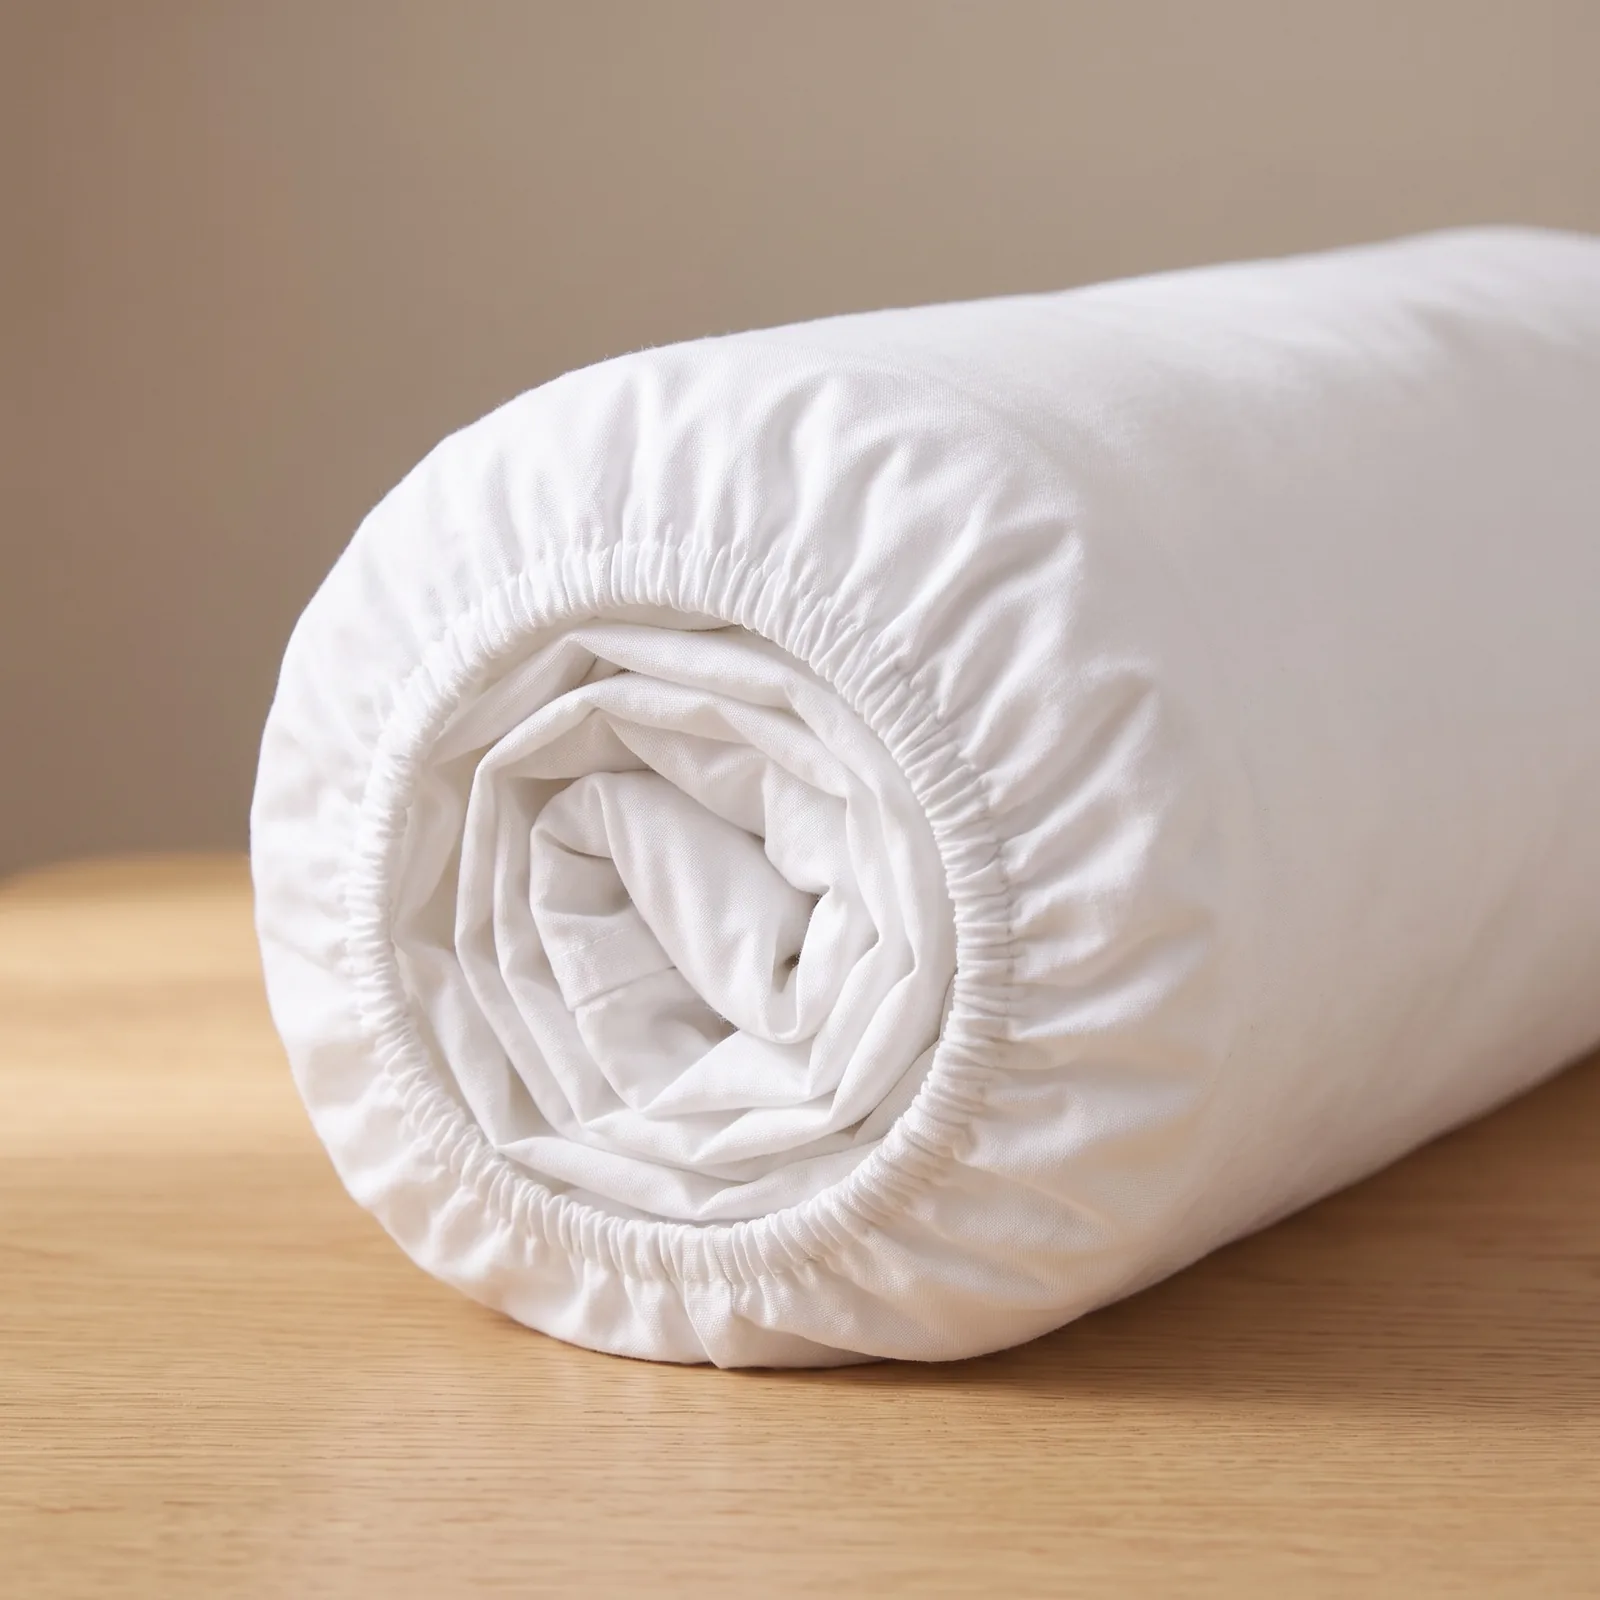
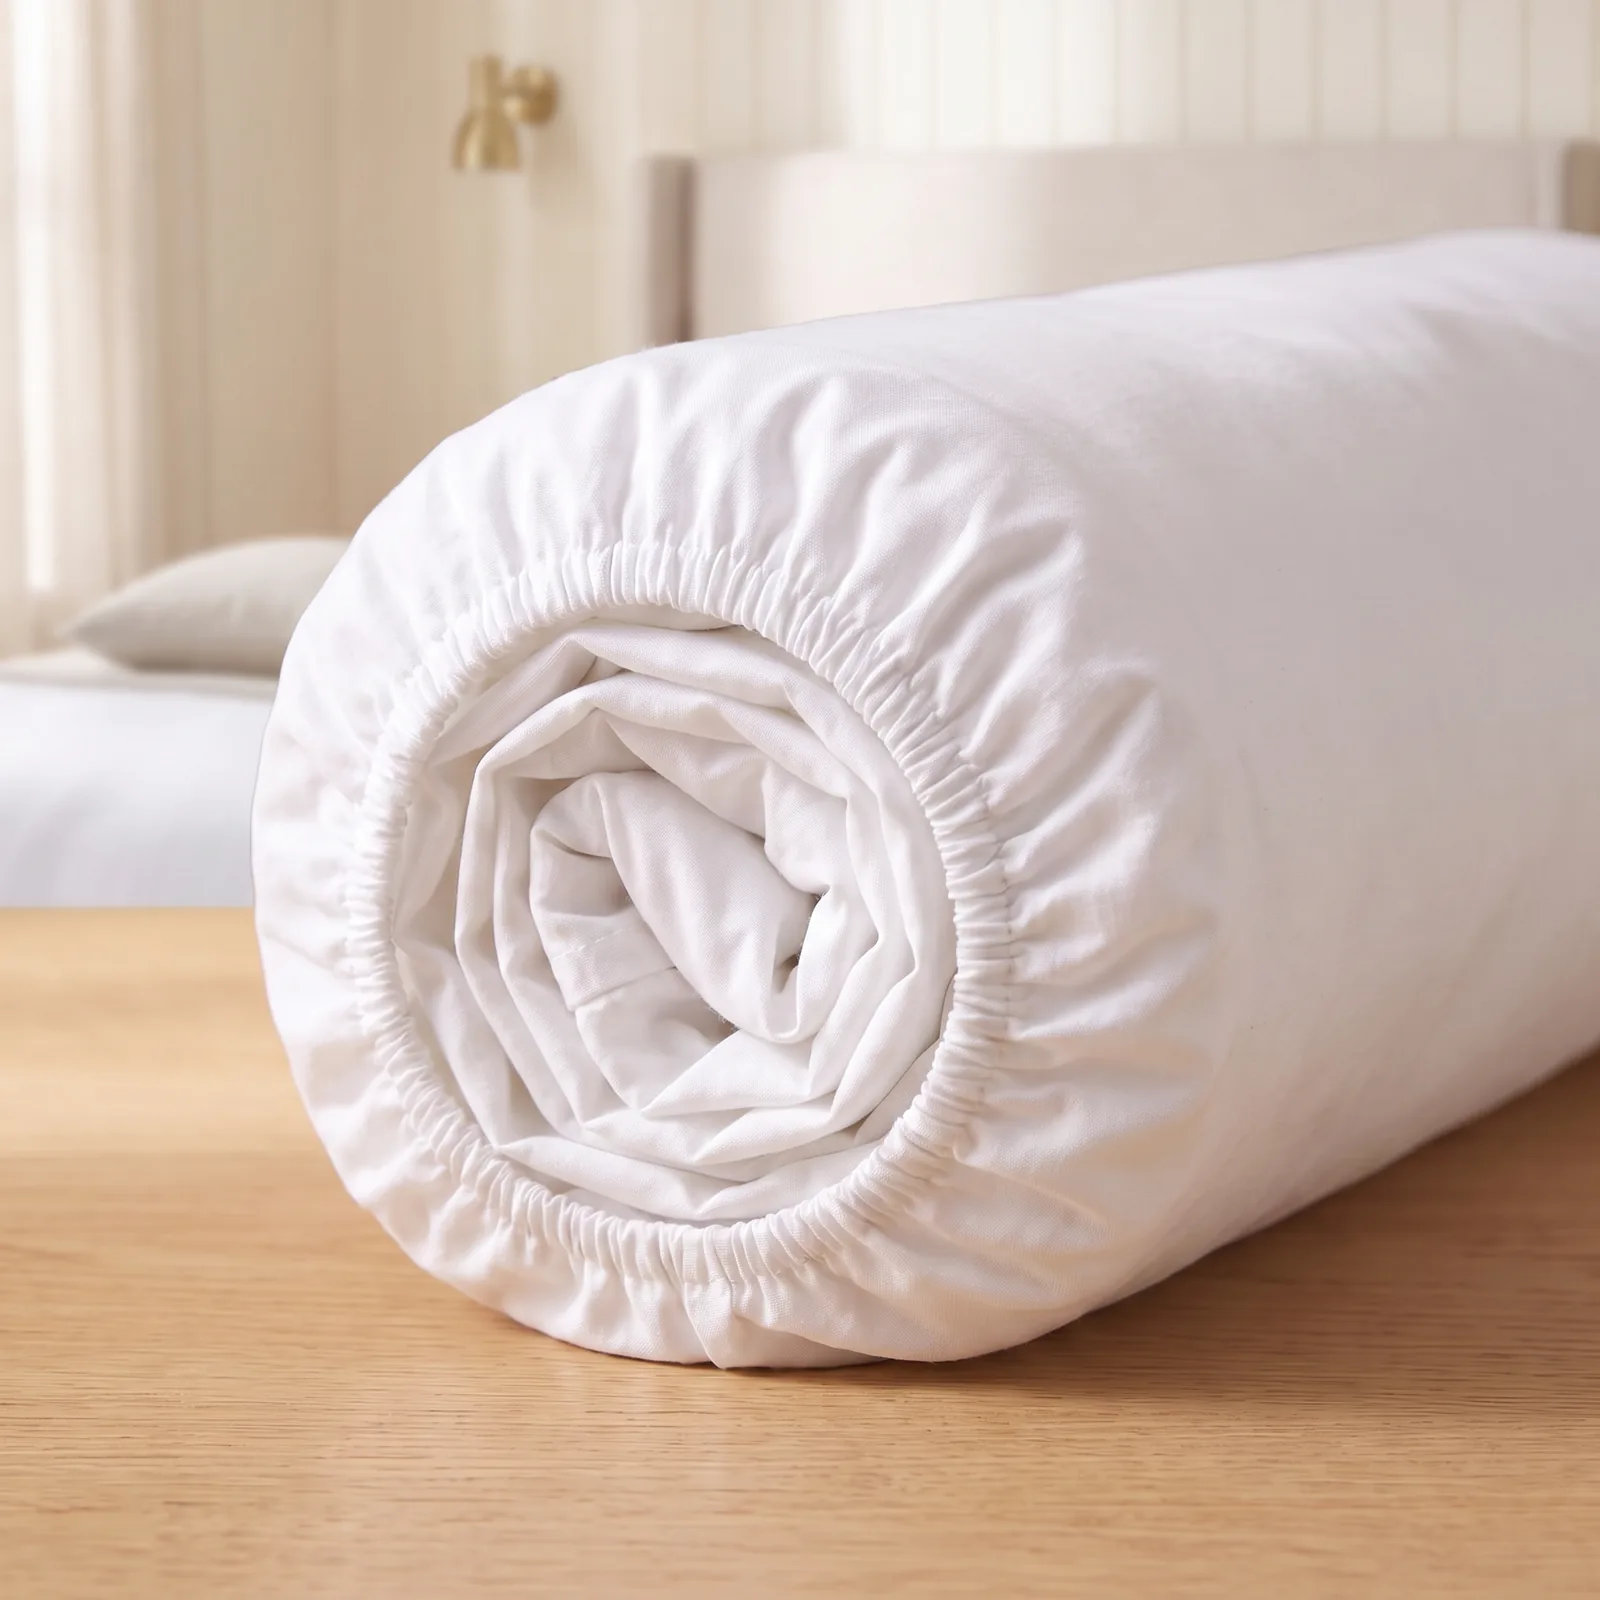
Nova serija fotografija proizvoda (svijetla krem soba) za posteljinu, carsafe i peskire

Changed region(s): [[0.0, 0.0, 1.0, 0.5938]]

diff --git a/src/lib/products.ts b/src/lib/products.ts
@@ -212,12 +212,11 @@ export const PROIZVODI: Proizvod[] = [
       "Bijela",
       "160x200 cm",
       [
-        "/images/products/glat-double-1-hotel.webp",
-        "/images/products/glat-double-2-stol.webp",
-        "/images/products/glat-double-3-odozgo.webp",
-        "/images/products/glat-double-4-soba.webp",
-        "/images/products/glat-double-5-detalj.webp",
-        "/images/products/glat-double-6-etiketa.webp",
+        "/images/products/glat-bracna-1-hotel.webp",
+        "/images/products/glat-bracna-2-stol.webp",
+        "/images/products/glat-bracna-4-bocno.webp",
+        "/images/products/glat-bracna-5-odozgo.webp",
+        "/images/products/glat-bracna-3-etiketa.webp",
       ]
     ),
     naStanju: true,
@@ -254,8 +253,9 @@ export const PROIZVODI: Proizvod[] = [
       [
         "/images/products/glat-single-1-hotel.webp",
         "/images/products/glat-single-2-stol.webp",
-        "/images/products/glat-single-3-soba.webp",
-        "/images/products/glat-single-4-etiketa.webp",
+        "/images/products/glat-single-4-pogled.webp",
+        "/images/products/glat-single-5-detalj.webp",
+        "/images/products/glat-single-3-etiketa.webp",
       ]
     ),
     naStanju: true,
@@ -390,6 +390,7 @@ export const PROIZVODI: Proizvod[] = [
     slike: generisiSlike("pamuk", ["peskiri"], BOJA_PRIVREMENA, "140x70 cm", [
       "/images/products/peskiri-veliki.webp",
       "/images/products/peskiri-closeup-krevet.webp",
+      "/images/products/peskir-detalj.webp",
     ]),
     naStanju: true,
     kategorije: ["peskiri"],
